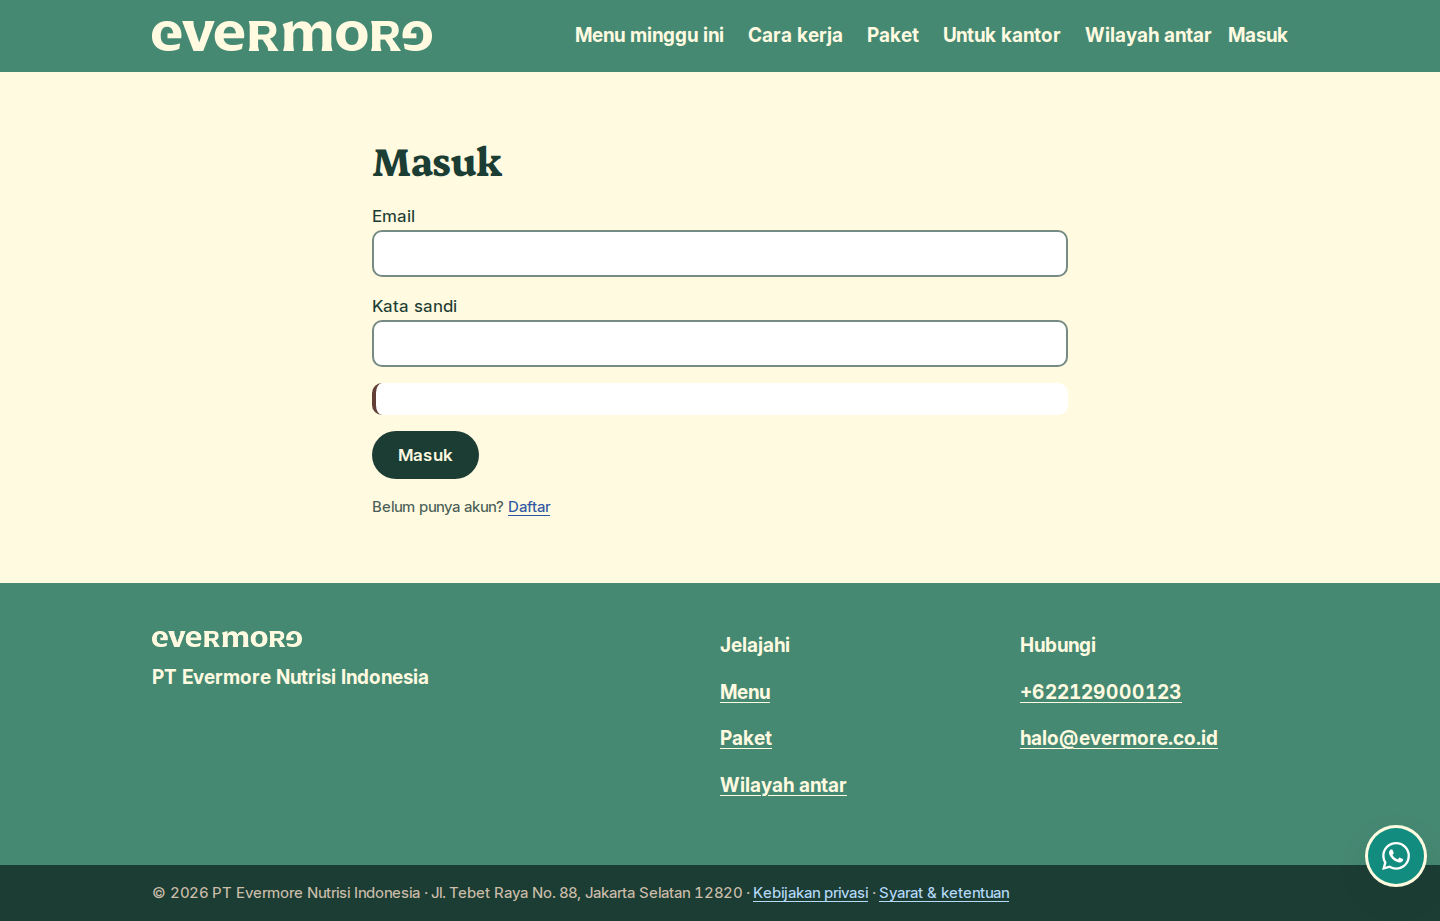
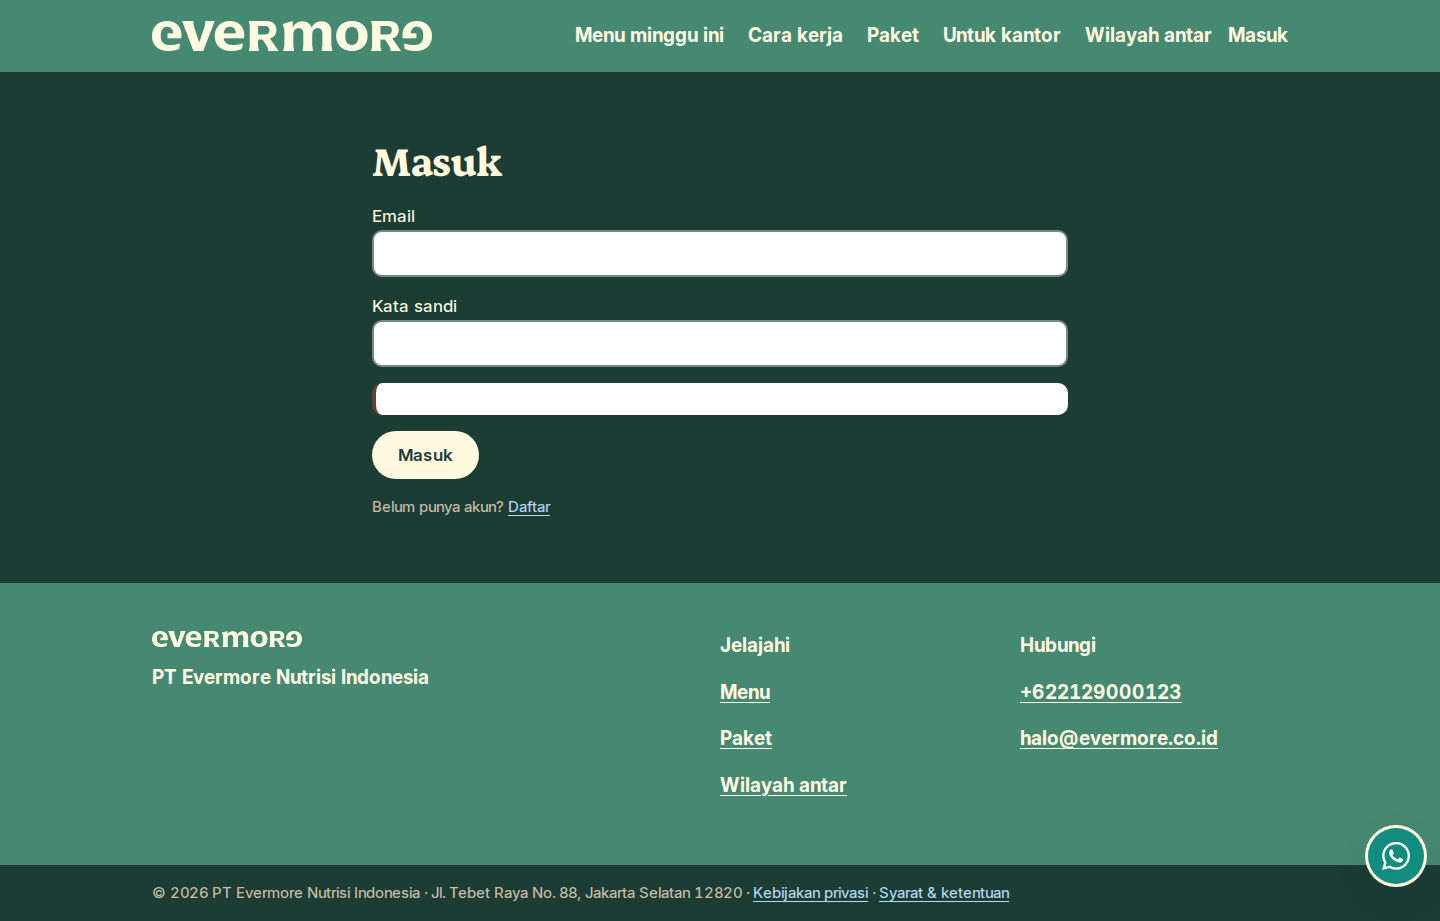
feat(web): the deep green is the page ground everywhere, not just /menu
Applied on <main> in base.html rather than per-section, so every page —
public, customer and back office — inherits it and a new page gets it without
anyone remembering. The masthead and footer keep their own bar treatment.

The interesting part is that this could not be a colour swap. The sheet tokens
are not merely different on the green, they are wrong in a way that hides text:
--ink-muted measures 6.69 on beige and 1.69 on the green. So it is a token
remap, and every element that paints its own light surface restores the sheet's
tokens through one rule over a set rather than a rule per element.

Buttons now read --btn-solid-bg / --btn-outline-ink instead of fixed colours,
because a button inside a card inside a dark section has to flip twice and
enumerating those contexts by selector is how one gets missed.

Three defects found by measuring, each invisible in the source:
- .btn-outline painted beige ink on a white callout at 1.05:1, and callout
  .meta painted beige-deep on white at 1.84:1 — my first attempt enumerated
  `.card .meta` and missed callouts and table headers entirely
- .table-wrap was listed as a light surface but painted no background, so the
  restored deep ink landed on the deep green at 1:1 — invisible. It now paints
  the surface its classification claims.
- the day-strip sub-label at 1.69, from listing .day in two contradictory
  groups

Verified: 28/28 contrast pairings match design.md §3, 30/30 page/viewport
[…]

diff --git a/web/public/css/app.css b/web/public/css/app.css
@@ -37,6 +37,7 @@ main { flex: 1 0 auto; }
 img, svg, video { max-width: 100%; height: auto; display: block; }
 
 h1, h2, h3, h4 {
+  color: var(--page-ink);
   font-family: var(--font-display);
   font-weight: var(--w-display);
   line-height: 1.15;
@@ -169,9 +170,12 @@ a:hover { text-decoration-thickness: 2px; }
 .btn-secondary { background: transparent; color: var(--beige); border-color: var(--beige); }
 .btn-secondary:hover { background: rgba(255, 250, 224, 0.12); }
 
-/* On the sheet, the filled button is the deep green. */
-.btn-solid { background: var(--nourish-deep); color: var(--beige); }
-.btn-outline { background: transparent; color: var(--nourish-deep); border-color: var(--border); }
+/* Read from tokens, never from a fixed colour. A button inside a card inside
+ * a dark section has to flip twice, and enumerating those contexts by selector
+ * is how one gets missed — which is exactly what happened: `.btn-outline`
+ * painted beige ink on a white callout at 1.05:1. */
+.btn-solid   { background: var(--btn-solid-bg); color: var(--btn-solid-ink); }
+.btn-outline { background: transparent; color: var(--btn-outline-ink); border-color: var(--btn-outline-border); }
 
 .btn[aria-disabled="true"], .btn:disabled { opacity: .6; cursor: not-allowed; transform: none; box-shadow: none; }
 
@@ -301,7 +305,16 @@ input[type="radio"], input[type="checkbox"] { min-height: 0; width: 20px; height
 
 /* ---------------------------------------------------------------- tables */
 
-.table-wrap { overflow-x: auto; border: 1px solid var(--border-subtle); border-radius: var(--radius-md); }
+/* The wrapper paints a surface rather than being transparent. It is listed as
+ * a light surface in the deep-ground remap, and a "light surface" with no
+ * background put deep ink on the deep green at 1:1 — invisible. If it claims
+ * the light inks it has to provide the light ground. */
+.table-wrap {
+  overflow-x: auto;
+  background: var(--card-bg);
+  border: 1px solid var(--border-subtle);
+  border-radius: var(--radius-md);
+}
 table { border-collapse: collapse; width: 100%; font-size: var(--text-sm); }
 th, td { text-align: left; padding: var(--space-3) var(--space-4); border-bottom: 1px solid var(--border-subtle); }
 th { font-weight: var(--w-strong); background: rgba(28, 61, 52, 0.04); white-space: nowrap; }
@@ -433,15 +446,16 @@ td.num, th.num { text-align: right; font-variant-numeric: tabular-nums; }
 
 /* ------------------------------------------------- the deep-green ground */
 
-/* A section painted on the brand's deep green instead of the beige sheet.
+/* The brand's deep green as a page ground, applied to <main> in base.html so
+ * every page gets it and the bars keep their own treatment.
  *
- * This is a TOKEN REMAP, not a set of one-off colours, because the sheet
- * tokens are wrong here and wrong in a way that hides text:
+ * This is a TOKEN REMAP. The sheet tokens are not merely different on the
+ * green, they are wrong in a way that hides text:
  *
- *     --ink-muted  #4A5D56  measures  6.69 on beige  but  1.69 on the green
- *     --border     .60 deep measures  3.55 on beige  but  ~1.2 on the green
+ *     --ink-muted  #4A5D56  6.69 on beige  ->  1.69 on the green
+ *     --border     .60 deep 3.55 on beige  ->  ~1.2 on the green
  *
- * Remapped values, all measured (scripts/contrast.py):
+ * Remapped values, every one measured by scripts/contrast.py:
  *     beige       11.32   headings and body
  *     beige-deep   6.47   muted text
  *     blue-light   8.15   links
@@ -457,40 +471,41 @@ td.num, th.num { text-align: right; font-variant-numeric: tabular-nums; }
   --border:        rgba(255, 250, 224, 0.55);
   --border-subtle: rgba(255, 250, 224, 0.22);
   --focus-ring:    var(--beige);
+
+  /* On the green the filled button inverts: beige fill, deep ink (11.32). */
+  --btn-solid-bg:       var(--beige);
+  --btn-solid-ink:      var(--nourish-deep);
+  --btn-outline-ink:    var(--beige);
+  --btn-outline-border: var(--beige);
 }
 
-.ground-deep h1, .ground-deep h2, .ground-deep h3, .ground-deep h4 { color: var(--beige); }
-
-/* Anything that paints its OWN light surface inside the dark ground must put
- * the light inks back. Without this the remapped beige-deep lands on a white
- * card at 1.75 and the muted text disappears — the same collision that made
- * the packages cards unreadable at 1.05:1. */
-/* NOTE: .chip and .day are deliberately NOT here. They sit transparent on the
- * dark ground and take beige ink; listing them here too made their sub-label
- * paint the light #4A5D56 straight onto the green at 1.69. Two rules fighting
- * over one element is exactly what design.md §4 warns about. */
-.ground-deep .card,
-.ground-deep .searchbox input,
-.ground-deep input[type="text"],
-.ground-deep input[type="search"],
-.ground-deep input[type="number"],
-.ground-deep .callout,
-.ground-deep .table-wrap {
+/* ANY element that paints its own light surface restores the sheet's tokens.
+ *
+ * This is one rule over a set, not a rule per element, because the per-element
+ * version missed callouts and table headers: beige-deep landed on white at
+ * 1.84 and an outline button at 1.05. Everything downstream reads the tokens,
+ * so nesting resolves itself however deep it goes.
+ */
+.ground-deep :is(.card, .callout, .table-wrap, .searchbox input,
+                 input, select, textarea) {
   --page-ink:      var(--nourish-deep);
   --ink-muted:     #4A5D56;
   --link:          var(--blue-deep);
   --border:        rgba(28, 61, 52, 0.60);
   --border-subtle: rgba(28, 61, 52, 0.28);
-  color: var(--nourish-deep);
-  background: var(--surface);
+  --focus-ring:    var(--nourish-deep);
+
+  --btn-solid-bg:       var(--nourish-deep);
+  --btn-solid-ink:      var(--beige);
+  --btn-outline-ink:    var(--nourish-deep);
+  --btn-outline-border: rgba(28, 61, 52, 0.60);
+
+  color: var(--page-ink);
 }
 
-.ground-deep .card h1, .ground-deep .card h2,
-.ground-deep .card h3, .ground-deep .card h4 { color: var(--nourish-deep); }
-
-/* The chips and day pills are controls ON the dark ground, so their resting
- * state is outlined-beige and their selected state is the filled beige — the
- * inverse of the sheet, and both clear 3:1. */
+/* Chips and day pills are controls ON the green: outlined beige at rest,
+ * filled beige when chosen. Both clear 3:1 either way round. They are
+ * deliberately NOT in the light-surface set above. */
 .ground-deep .chip,
 .ground-deep .day {
   background: transparent;
@@ -503,24 +518,11 @@ td.num, th.num { text-align: right; font-variant-numeric: tabular-nums; }
   color: var(--nourish-deep);
   border-color: var(--beige);
 }
-/* Resting: beige-deep on the green, 6.47. Selected: the pill is filled beige,
- * so the sub-label takes the sheet's muted ink at 6.69. */
-.ground-deep .day span { color: var(--beige-deep); }
+.ground-deep .day span { color: var(--beige-deep); }         /* 6.47 */
 .ground-deep .day[aria-current="date"] span,
-.ground-deep .day.is-active span { color: #4A5D56; }
+.ground-deep .day.is-active span { color: #4A5D56; }         /* 6.69 on beige */
 
-/* The search field keeps a light surface so typed text stays high-contrast. */
 .ground-deep .searchbox input::placeholder { color: #4A5D56; }
 
-.ground-deep .meta { color: var(--beige-deep); }
-.ground-deep .card .meta { color: #4A5D56; }
-.ground-deep .price { color: var(--nourish-deep); }
-.ground-deep .price small { color: #4A5D56; }
-.ground-deep a:not(.btn):not(.chip):not(.day) { color: var(--blue-light); }
-.ground-deep .card a:not(.btn) { color: var(--blue-deep); }
-
-/* On the dark ground the filled button inverts: beige fill, deep ink (11.32). */
-.ground-deep .btn-solid { background: var(--beige); color: var(--nourish-deep); }
-.ground-deep .btn-outline { color: var(--beige); border-color: var(--beige); }
-.ground-deep .card .btn-solid { background: var(--nourish-deep); color: var(--beige); }
-.ground-deep .card .btn-outline { color: var(--nourish-deep); border-color: rgba(28,61,52,.60); }
+/* The table header tints its own surface, so it is a light surface too. */
+.ground-deep th { background: rgba(28, 61, 52, 0.04); color: var(--nourish-deep); }

diff --git a/web/public/css/tokens.css b/web/public/css/tokens.css
@@ -34,8 +34,11 @@
   --gold:          #D4AF37;  /* the corner ribbon (deep ink 5.65) */
 
   /* ---- Semantic ---- */
-  --page-bg:       var(--beige);
-  --page-ink:      var(--nourish-deep);
+  /* The deep green is the page ground. <main> carries the .ground-deep remap
+   * that makes the inks legible on it; these two keep html/body and the
+   * overscroll gutter from flashing the beige sheet at the edges. */
+  --page-bg:       var(--nourish-deep);
+  --page-ink:      var(--beige);
   --bar-bg:        var(--nourish);
   --bar-ink:       var(--beige);
   --card-bg:       var(--surface);
@@ -49,6 +52,13 @@
   --border-subtle: rgba(28, 61, 52, 0.28);
 
   --focus-ring:    var(--nourish-deep);
+
+  /* Button inks as tokens, so a ground swap moves them without a per-context
+   * override. On the sheet the filled button is the deep green. */
+  --btn-solid-bg:       var(--nourish-deep);
+  --btn-solid-ink:      var(--beige);
+  --btn-outline-ink:    var(--nourish-deep);
+  --btn-outline-border: var(--border);
 
   /* ---- Type (design.md §1) ---- */
   --font-display: 'Erode', Georgia, 'Times New Roman', serif;

diff --git a/web/templates/base.html b/web/templates/base.html
@@ -80,7 +80,10 @@
   </nav>
 </header>
 
-<main id="main">
+{{/* The deep green is the page ground everywhere. It sits on <main> rather
+     than on <body> so the masthead and footer keep their own bar treatment,
+     and rather than on each section so a new page inherits it automatically. */}}
+<main id="main" class="ground-deep">
 {{template "content" .}}
 </main>
 

diff --git a/web/templates/menu.html b/web/templates/menu.html
@@ -1,5 +1,5 @@
 {{define "content"}}
-<section class="section ground-deep">
+<section class="section">
   <div class="container">
     <div class="section-head">
       <div>
